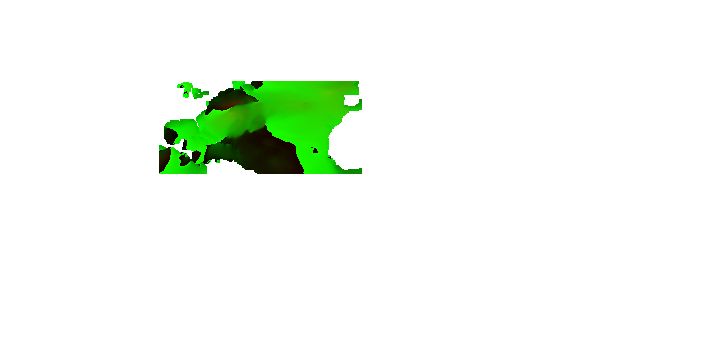
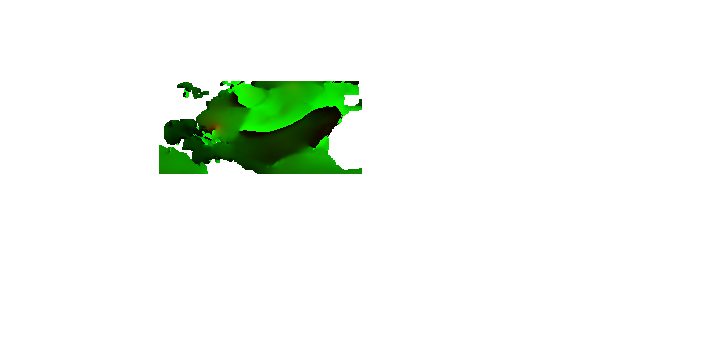
beautiful contours

Changed region(s): [[0.2139, 0.2139, 0.5194, 0.4889]]

diff --git a/hackathon/src/main.js b/hackathon/src/main.js
@@ -130,13 +130,13 @@ import fragmentSource from './shaders/fragment.glsl?raw';
                           // Normalized stops (Feet / 83.6)
                           // 0, 2ft(0.02), 4ft(0.04), 6ft(0.07), 10ft(0.12), 15ft(0.18), 25ft(0.30), 45ft(0.54), 60ft(0.72), 83.6ft(1.0)
 
-                          if (n < 2.0)      _color = mix(c0, c1, (n - 2.0) / 2.0);
-                          else if (n < 4.0) _color = mix(c1, c2, (n - 2.0) / 2.0);
-                          else if (n < 6.0) _color = mix(c2, c3, (n - 4.0) / 2.0); // 6ft Milestone
-                          else if (n < 10.0) _color = mix(c3, c4, (n - 6.0) / 4.0); // 10ft Milestone
-                          else if (n < 15.0) _color = mix(c4, c5, (n - 10.0) / 5.0); 
-                          else if (n < 25.0) _color = mix(c5, c6, (n - 15.0) / 10.0);
-                          else if (n < 45.0) _color = mix(c6, c7, (n - 25.0) / 20.0); // 45ft Milestone
+                          if (n < 2.0)      _color = mix(c0, c1, (n-2.0) / 2.0);
+                          else if (n < 4.0) _color = mix(c1, c2, (n-4.0) / 2.0);
+                          else if (n < 6.0) _color = mix(c2, c3, (n - 6.0) / 2.0); // 6ft Milestone
+                          else if (n < 10.0) _color = mix(c3, c4, (n - 10.0) / 2.0); // 10ft Milestone
+                          else if (n < 15.0) _color = mix(c4, c5, (n - 15.0) / 2.0); 
+                          else if (n < 25.0) _color = mix(c5, c6, (n - 25.0) / 10.0);
+                          else if (n < 45.0) _color = mix(c6, c7, (n - 45.0) / 20.0); // 45ft Milestone
                           else if (n < 60.0) _color = mix(c7, c8, (n - 45.0) / 15.0);
                           else               _color = mix(c8, c9, (n - 60.0) / 0.28);
 
